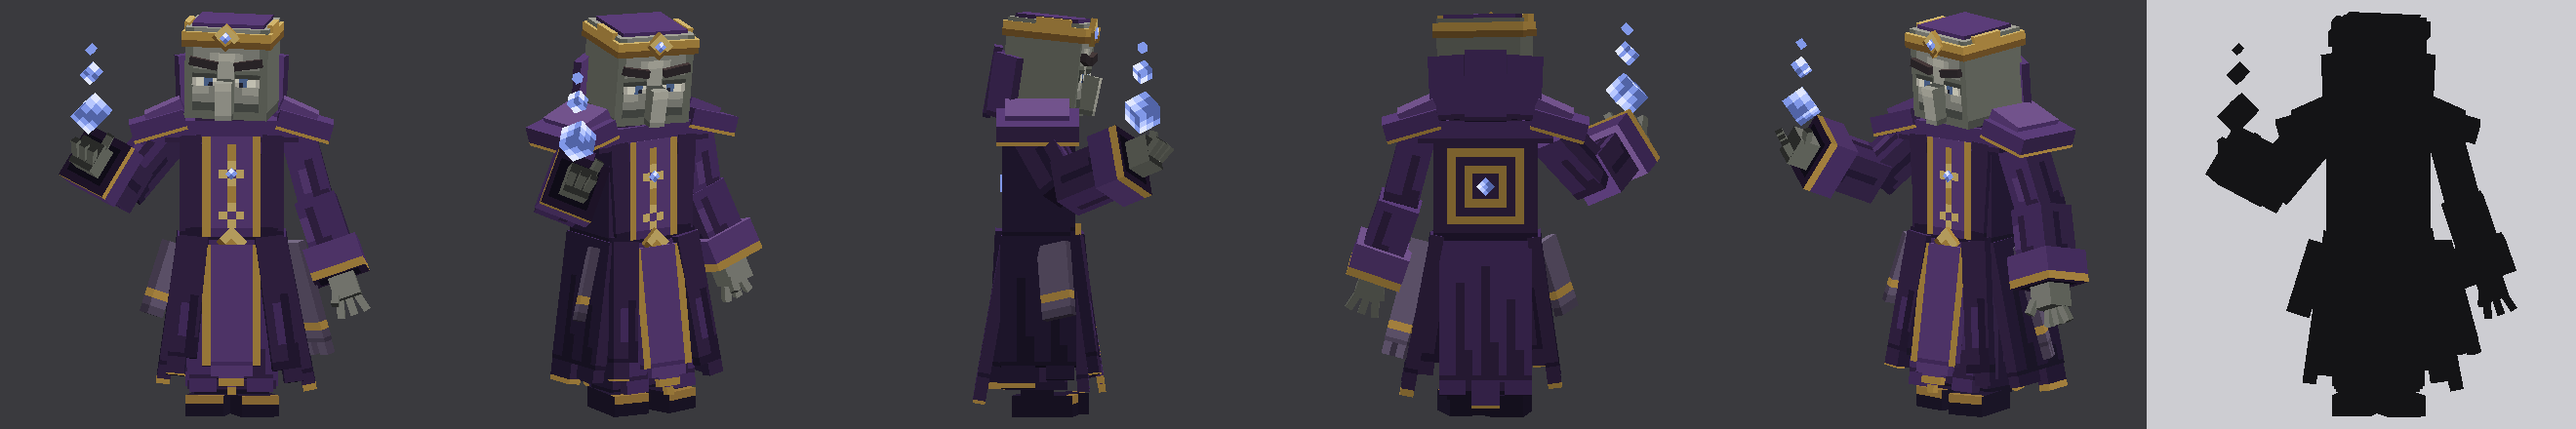
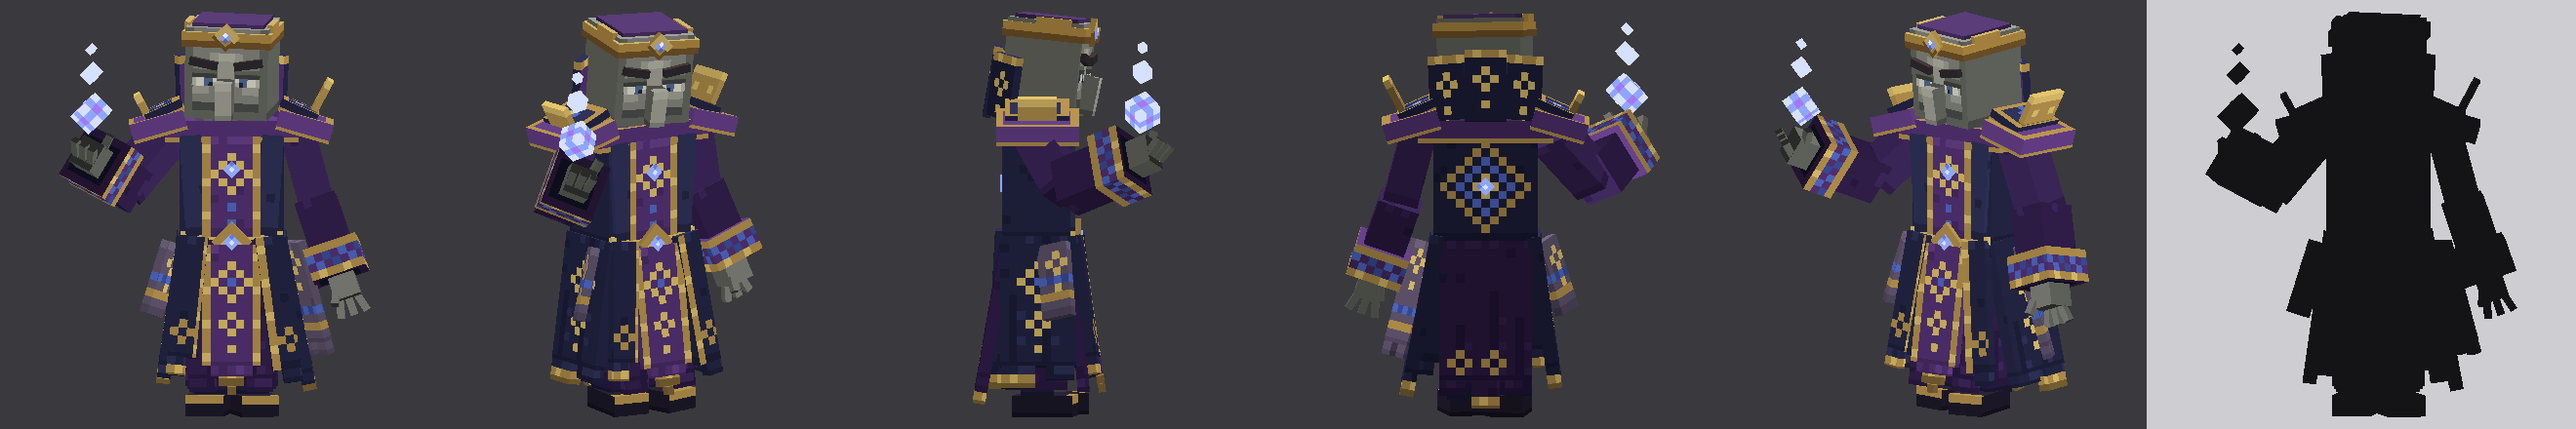
Oversized Evoker: bring back the first model's ornate outfit, keep the art-pass head
The outfit painters of the first model live in evocateur_tenue.py (robe, indigo
coat, royal tabard, runes, gold fins, buckle and chest stones). The head, the
hands and the crown are unchanged, and so are the bones the animations use;
one bone added (glow_buckle). The plain cloth painters stay: the Oracle uses them.

diff --git a/FluxDungeons/assets/monstres/evocateur_tenue.py b/FluxDungeons/assets/monstres/evocateur_tenue.py
@@ -1,0 +1,260 @@
+#!/usr/bin/env python3
+"""Outfit of the Oversized Evoker: the ornate enchanter's dress of the first model (2026-11-13), kept at the
+owner's request on 2026-11-14 while the head stays the one of the art pass (evocateur_demesure.py).
+
+Deep violet robe, dark indigo coat, royal violet tabard, grey violet sashes, old gold everywhere, painted blue
+runes. Signature motif: the same diamond at shrinking sizes (`scale_glyph`), concentric diamonds on the chest and
+the back. The cloth carries a few stitches placed by the seeded random of the texture baker: the same on every run.
+
+Only painters live here; the cubes are in evocateur_demesure.py, which takes MATS and GLOW_MATS from this module.
+"""
+from bbkit import hx, tone
+
+
+def pal(*c):
+    return [hx(x) for x in c]
+
+
+# --------------------------------------------------------------------------- palette (dark -> light)
+ROBE = pal("#22153A", "#2B1A44", "#34204F", "#40295F")      # deep violet: main robe
+ROYAL = pal("#3F2659", "#4A2C68", "#563477", "#69418D")     # royal violet: tabard, mantle, cuffs
+INDIGO = pal("#181A33", "#1E203C", "#252747", "#30335A")    # dark indigo: outer coat
+BLUE = pal("#3C4FA0", "#536CCB", "#7F93E0")                 # magic blue: painted runes (not emissive)
+GOLD = pal("#7E6534", "#B9954F", "#E5C56D", "#F4E3A1")      # shadow, ancient gold, bright gold, glint
+GREY = pal("#463D52", "#544A61", "#62566F", "#766A84")      # grey violet secondary cloth: sashes, collar base
+BOOT = pal("#15121F", "#1E1A2B", "#2A2439")
+
+
+# Emissive colours, used by glowing pieces only (the preview recognises them by colour).
+GLOW = pal("#5E7BE8", "#8FA6FF", "#D6E0FF")
+GLOW_VIOLET = hx("#A678F0")
+GLOW_LID = hx("#1B1524")
+
+LIGHT = {"up": 1, "north": 0, "east": 0, "west": 0, "south": -1, "down": -1}   # light from above, a little from the front
+SIDES = ("north", "south", "east", "west")
+
+
+# --------------------------------------------------------------------------- rune stamps
+def put(px, x, y, c):
+    if 0 <= y < len(px) and 0 <= x < len(px[0]):
+        px[y][x] = c
+
+
+def diamond(px, cx, cy, rad, colour):
+    """Outline of a pixel diamond (|dx| + |dy| = rad); rad 0 is one pixel."""
+    for dy in range(-rad, rad + 1):
+        dx = rad - abs(dy)
+        put(px, cx - dx, cy + dy, colour)
+        put(px, cx + dx, cy + dy, colour)
+
+
+def scale_glyph(px, cx, y0, sizes=(2, 1, 0)):
+    """The signature rune: the same diamond three times, each smaller, read from top to bottom."""
+    y = y0
+    for rad in sizes:
+        diamond(px, cx, y + rad, rad, GOLD[2])
+        if rad >= 2:
+            put(px, cx, y + rad, BLUE[1])
+        y += 2 * rad + 2
+
+
+def concentric(px, cx, cy, rings):
+    """Concentric diamonds, (radius, colour) from the outside in: space folding on itself."""
+    for rad, colour in rings:
+        diamond(px, cx, cy, rad, colour)
+
+
+def frieze(px, y, colour=GOLD[1]):
+    """Row of tiny diamonds above a hem."""
+    w = len(px[0])
+    for cx in range(2, w - 1, 4):
+        diamond(px, cx, y, 1, colour)
+
+
+# --------------------------------------------------------------------------- painters
+def cloth(shades, base=2, hem=False, folds=True, edges=(), rune=None, rune_faces=SIDES):
+    """Fabric in flat tones: a few darker stitches, vertical fold lines on the lower part with a lit pixel beside
+    them, top edge caught by the light, bottom row in shadow or a two-row gold hem. `edges`: gold border on these
+    columns of the north face ("first", "last"). `rune(px, w, h)` paints the motif on `rune_faces`."""
+    def f(w, h, r, face):
+        b = base + LIGHT[face]
+        px = [[tone(shades, b)] * w for _ in range(h)]
+        if face in ("up", "down"):
+            for _ in range(max(1, w * h // 20)):
+                px[r.randrange(h)][r.randrange(w)] = tone(shades, b - 1)
+            return px
+        for _ in range(max(1, w * h // 28)):
+            px[r.randrange(h)][r.randrange(w)] = tone(shades, b - 1)
+        if folds and h >= 8 and w >= 4:
+            x = 1 + r.randrange(2)
+            while x < w - 1:
+                y0 = int(h * (0.35 + 0.3 * r.random()))
+                for y in range(y0, h):
+                    px[y][x] = tone(shades, b - 1)
+                    if x + 1 < w and y > y0 and y % 3 == 0:
+                        px[y][x + 1] = tone(shades, b + 1)
+                x += 3 + r.randrange(3)
+        for x in range(w):
+            if r.random() < 0.3:
+                px[0][x] = tone(shades, b + 1)
+        if hem and h >= 3:
+            px[h - 1] = [GOLD[0]] * w
+            px[h - 2] = [GOLD[2] if x % 3 == 1 else GOLD[1] for x in range(w)]
+        else:
+            px[h - 1] = [tone(shades, b - 1)] * w
+        if face == "north":
+            for e in edges:
+                x = 0 if e == "first" else w - 1
+                for y in range(h):
+                    px[y][x] = GOLD[2] if y % 4 == 1 else GOLD[1]
+        if rune and face in rune_faces:
+            rune(px, w, h)
+        return px
+    return f
+
+
+def metal(base=1):
+    """Old gold: flat tone, lit top row, shadowed bottom row, a rivet every third pixel on long faces."""
+    def f(w, h, r, face):
+        b = base + (1 if face == "up" else -1 if face in ("down", "south") else 0)
+        px = [[tone(GOLD, b)] * w for _ in range(h)]
+        if face in SIDES and h >= 2:
+            px[0] = [tone(GOLD, b + 1)] * w
+            px[h - 1] = [tone(GOLD, b - 1)] * w
+            if h >= 3 and w >= 6:
+                for x in range(1, w, 3):
+                    px[h // 2][x] = tone(GOLD, b + 1)
+        return px
+    return f
+
+
+def boss(w, h, r, face):
+    """Gold diamond plate (buckle, circlet jewel mount): bright centre, darker rim."""
+    px = [[GOLD[2]] * w for _ in range(h)]
+    for y in range(h):
+        for x in range(w):
+            if x in (0, w - 1) or y in (0, h - 1):
+                px[y][x] = GOLD[1]
+    return px
+
+
+def cuff(w, h, r, face):
+    """Wide sleeve end: gold top and bottom rows, a blue zigzag between them; dark opening underneath."""
+    if face == "down":                                       # lining, darker towards the arm
+        return [[ROYAL[0] if x in (0, w - 1) or y in (0, h - 1) else INDIGO[0] for x in range(w)] for y in range(h)]
+    b = 2 + LIGHT[face]
+    px = [[tone(ROYAL, b)] * w for _ in range(h)]
+    if face in SIDES and h >= 4:
+        px[0] = [GOLD[1]] * w
+        px[h - 1] = [GOLD[2] if x % 3 == 1 else GOLD[1] for x in range(w)]
+        for x in range(w):
+            px[1 + (x % 2)][x] = BLUE[1] if x % 4 < 2 else BLUE[0]
+    return px
+
+
+def plate_top(shades, base, jewel):
+    """Shoulder plate: gold outline on the top face, gold bottom row on the sides, optional blue diamond."""
+    def f(w, h, r, face):
+        b = base + LIGHT[face]
+        px = [[tone(shades, b)] * w for _ in range(h)]
+        if face == "up":
+            for y in range(h):
+                for x in range(w):
+                    if x in (0, w - 1) or y in (0, h - 1):
+                        px[y][x] = GOLD[1]
+            if jewel and w >= 5 and h >= 5:
+                diamond(px, w // 2, h // 2, 1, BLUE[1])
+                put(px, w // 2, h // 2, GOLD[2])
+        elif face in SIDES:
+            px[h - 1] = [GOLD[1]] * w
+        return px
+    return f
+
+
+def collar(w, h, r, face):
+    """High collar: indigo outside, royal violet lining, gold top row."""
+    shades = ROYAL if face == "north" else INDIGO
+    px = [[tone(shades, 2 + LIGHT[face])] * w for _ in range(h)]
+    if face in SIDES:
+        px[0] = [GOLD[2] if x % 3 == 1 else GOLD[1] for x in range(w)]
+        if face == "south" and w >= 5 and h >= 7:
+            scale_glyph(px, w // 2, 2, sizes=(1, 0))
+    return px
+
+
+def sash(w, h, r, face):
+    """Grey violet sash: gold band near the end, a blue line above it, small glyph on the broad faces."""
+    px = cloth(GREY, 2, folds=False)(w, h, r, face)
+    if face in SIDES and h >= 8:
+        px[h - 3] = [GOLD[1]] * w
+        px[h - 5] = [BLUE[0] if x % 2 else BLUE[1] for x in range(w)]
+        if face in ("east", "west") and w >= 4:
+            scale_glyph(px, w // 2, 1, sizes=(1, 0))
+    return px
+
+
+def boot(w, h, r, face):
+    px = [[BOOT[2 if face == "up" else 1]] * w for _ in range(h)]
+    if face == "north":
+        px[0] = [GOLD[1]] * w                                # gold toe cap
+    elif face == "up":
+        px[0] = [GOLD[1]] * w
+    elif face in SIDES:
+        px[h - 1] = [BOOT[0]] * w
+    return px
+
+
+def jewel(w, h, r, face):
+    px = [[GLOW[1]] * w for _ in range(h)]
+    if w >= 2 and h >= 2:
+        px[h // 2][w // 2] = GLOW[2]
+        px[0][0] = GLOW[0]
+    return px
+
+
+def focus(w, h, r, face):
+    """Cube of the palm: pale edges, blue faces, a violet heart; the same painting at the three sizes."""
+    px = [[GLOW[0]] * w for _ in range(h)]
+    for y in range(h):
+        for x in range(w):
+            if x in (0, w - 1) or y in (0, h - 1):
+                px[y][x] = GLOW[2] if (x in (0, w - 1) and y in (0, h - 1)) else GLOW[1]
+    if w >= 3 and h >= 3:
+        px[h // 2][w // 2] = GLOW_VIOLET
+    return px
+
+
+def tabard_up(px, w, h):
+    concentric(px, w // 2, 4, ((2, GOLD[2]),))               # ring around the glowing chest stone
+    for y in range(8, h - 1):
+        if y % 2 == 0:
+            put(px, w // 2, y, BLUE[1])                       # vertical dashed line down to the belt
+
+
+def back_rune(px, w, h):
+    concentric(px, w // 2, 7, ((5, GOLD[1]), (3, BLUE[1]), (1, GOLD[2])))
+
+
+MATS = {
+    "robe": cloth(ROBE, 2), "robe_hem": cloth(ROBE, 2, hem=True),
+    "skirt_back": cloth(ROBE, 2, rune=lambda px, w, h: frieze(px, h - 3), rune_faces=("south",)),
+    "coat": cloth(INDIGO, 2, folds=False), "coat_hem": cloth(INDIGO, 2, hem=True, folds=False),
+    "coat_side": cloth(INDIGO, 2, rune=lambda px, w, h: scale_glyph(px, w // 2, 3), rune_faces=("east", "west")),
+    "coat_back": cloth(INDIGO, 2, folds=False, rune=back_rune, rune_faces=("south",)),
+    "flap_right": cloth(INDIGO, 2, edges=("last",), folds=False,
+                        rune=lambda px, w, h: diamond(px, 1, h - 4, 1, GOLD[1]), rune_faces=("north",)),
+    "flap_left": cloth(INDIGO, 2, edges=("first",), folds=False,
+                       rune=lambda px, w, h: diamond(px, w - 2, h - 4, 1, GOLD[1]), rune_faces=("north",)),
+    "lapel_right": cloth(INDIGO, 3, folds=False), "lapel_left": cloth(INDIGO, 3, folds=False),
+    "tabard_up": cloth(ROYAL, 2, edges=("first", "last"), folds=False, rune=tabard_up, rune_faces=("north",)),
+    "tabard": cloth(ROYAL, 2, edges=("first", "last"), folds=False,
+                    rune=lambda px, w, h: scale_glyph(px, w // 2, 2), rune_faces=("north",)),
+    "tabard_tip": cloth(ROYAL, 2, hem=True, folds=False),
+    "sash": sash, "belt": metal(1), "boss": boss, "fin": metal(1),
+    "mantle": plate_top(ROYAL, 2, False), "pauldron": plate_top(ROYAL, 3, False),
+    "pauldron_top": plate_top(INDIGO, 2, True), "collar": collar, "collar_base": cloth(GREY, 2, folds=False),
+    "sleeve": cloth(ROBE, 3, folds=False), "sleeve_low": cloth(ROBE, 2, folds=False), "cuff": cuff,
+    "trouser": cloth(INDIGO, 1, folds=False), "boot": boot,
+}
+GLOW_MATS = {"jewel": (jewel, 2), "focus": focus}
+GLOW_COLOURS = set(GLOW) | {GLOW_VIOLET}

diff --git a/FluxDungeons/assets/monstres/evocateur_demesure.py b/FluxDungeons/assets/monstres/evocateur_demesure.py
@@ -301,6 +301,12 @@ MATS = {
 }
 GLOW_MATS = {"crystal": (crystal, 2), "focus": crystal}
 GLOW_COLOURS = set(CRYSTAL)
+# The outfit is the first model's ornate dress (evocateur_tenue.py), kept on 2026-11-14; the head, the hands and
+# the crown crystal stay the art pass's, painted above. The plain cloth painters above still dress the Oracle.
+import evocateur_tenue as TENUE  # noqa: E402
+MATS.update(TENUE.MATS)
+GLOW_MATS.update(TENUE.GLOW_MATS)
+GLOW_COLOURS |= TENUE.GLOW_COLOURS
 
 # --------------------------------------------------------------------------- skeleton and pose (drawing units)
 HIPS = (0, 21, 0)
@@ -359,10 +365,10 @@ def parts():
     panel("Coat_left", "coat_left", (-5.7, 21.5, 0.8), (1.6, 16.5, 9), (-3, 0, -11), "coat_side",
           tabs=((-2.4, 4.0, 1.4), (2.6, 3.4, 2.8)), tab_mat="coat_hem", axis=2)
     G["Flap_right"] = ((4.4, 21.5, -4.3), "Skirt")
-    panel("Flap_right", "flap_right", (4.4, 21.5, -4.3), (3.4, 14.5, 1.3), (8, -7, 5), "flap",
+    panel("Flap_right", "flap_right", (4.4, 21.5, -4.3), (3.4, 14.5, 1.3), (8, -7, 5), "flap_right",
           tabs=((0.6, 2.2, 2.2),), tab_mat="coat_hem")
     G["Flap_left"] = ((-4.4, 21.5, -4.4), "Skirt")
-    panel("Flap_left", "flap_left", (-4.4, 21.5, -4.4), (3.4, 16, 1.3), (6, 8, -7), "flap",
+    panel("Flap_left", "flap_left", (-4.4, 21.5, -4.4), (3.4, 16, 1.3), (6, 8, -7), "flap_left",
           tabs=((-0.6, 2.2, 1.6),), tab_mat="coat_hem")
 
     # ---------------------------------------------------------------- tabard: royal violet strip, the rune column
@@ -382,29 +388,33 @@ def parts():
     # ---------------------------------------------------------------- torso
     add("Torso", "torso", (0, 28, 0), (11, 14.5, 7), (0, 0, 0), "robe")
     add("Torso", "belt", (0, 20.9, 0), (12.2, 2.4, 8.4), (0, 0, 0), "belt")
-    add("Torso", "buckle", (0, 20.9, -4.4), (2.6, 2.6, 0.9), (0, 0, 45), "mount")
+    add("Torso", "buckle", (0, 20.9, -4.4), (3.4, 3.4, 0.9), (0, 0, 45), "boss")
     add("Torso", "tabard_up", (0, 27.5, -3.85), (7, 12, 0.8), (0, 0, 0), "tabard_up")
-    add("Torso", "lapel_right", (4.55, 27.6, -3.8), (2.6, 12, 0.9), (0, 0, -4), "lapel")
-    add("Torso", "lapel_left", (-4.55, 27.6, -3.8), (2.6, 12, 0.9), (0, 0, 4), "lapel")
+    add("Torso", "lapel_right", (4.55, 27.6, -3.8), (2.6, 12, 0.9), (0, 0, -4), "lapel_right")
+    add("Torso", "lapel_left", (-4.55, 27.6, -3.8), (2.6, 12, 0.9), (0, 0, 4), "lapel_left")
     add("Torso", "coat_back", (0, 28, 3.9), (11, 14, 1), (0, 0, 0), "coat_back")
     for s, side in ((1, "right"), (-1, "left")):
         add("Torso", f"coat_flank_{side}", (5.75 * s, 28, 0.4), (0.9, 14, 8.1), (0, 0, 0), "coat")
     add("Torso", "neck", (0, 35.6, 0.2), (5, 1.8, 5), (0, 0, 0), "neck")
     add("Torso", "collar_base", (0, 35.6, 0.4), (8.6, 1.4, 8), (0, 0, 0), "collar_base")
-    # mantle and shoulders: wider than a vanilla evoker, reinforced cloth in two tilted layers, one gold line
+    # mantle and shoulders: wider than a vanilla evoker, two tilted layers and a gold fin (taller on the left, to
+    # balance the raised right arm)
     add("Torso", "mantle", (0, 34.0, 0.3), (16, 2.6, 9), (0, 0, 0), "mantle")
-    for s, side in ((1, "right"), (-1, "left")):
+    for s, side, fin in ((1, "right", (0.8, 3.2, 4.6)), (-1, "left", (0.8, 5.0, 5.6))):
         add("Torso", f"pauldron_{side}", (8.7 * s, 34.6, 0.3), (6.6, 2.4, 9.8), (0, 0, -16 * s), "pauldron")
         add("Torso", f"pauldron_top_{side}", (8.0 * s, 36.2, 0.3), (4.6, 1.6, 7.6), (0, 0, -24 * s), "pauldron_top")
+        add("Torso", f"fin_{side}", (10.6 * s, 36.4 + fin[1] / 2 - 1.2, 0.3), fin, (0, 0, -28 * s), "fin")
     # high collar behind the head: three panels opening towards the front
     add("Torso", "collar_back", (0, 39.6, 5.6), (5, 8.5, 1), (-10, 0, 0), "collar")
     for s, side in ((1, "right"), (-1, "left")):
         add("Torso", f"collar_{side}", (4.3 * s, 39.2, 4.2), (5, 7.6, 1), (-10, 32 * s, -8 * s), "collar")
-    # crystals set in the robe, each in its own full-bright bone
-    G["glow_chest"] = ((0, 29.0, -4.3), "Torso")
-    add("glow_chest", "chest_crystal", (0, 29.0, -4.35), (1.0, 1.0, 0.4), (0, 0, 45), "crystal")
+    # glowing stones set in the robe, each in its own full-bright bone
+    G["glow_chest"] = ((0, 29.5, -4.3), "Torso")
+    add("glow_chest", "chest_stone", (0, 29.5, -4.35), (1.5, 1.5, 0.4), (0, 0, 45), "jewel")
+    G["glow_buckle"] = ((0, 20.9, -4.9), "Torso")
+    add("glow_buckle", "buckle_stone", (0, 20.9, -4.95), (1.4, 1.4, 0.4), (0, 0, 45), "jewel")
     G["glow_back"] = ((0, 27.5, 4.4), "Torso")
-    add("glow_back", "back_crystal", (0, 27.5, 4.5), (1.5, 1.5, 0.4), (0, 0, 45), "crystal")
+    add("glow_back", "back_stone", (0, 27.5, 4.5), (1.5, 1.5, 0.4), (0, 0, 45), "jewel")
 
     # ---------------------------------------------------------------- head
     on_head = attach(NECK, HEAD_R)
